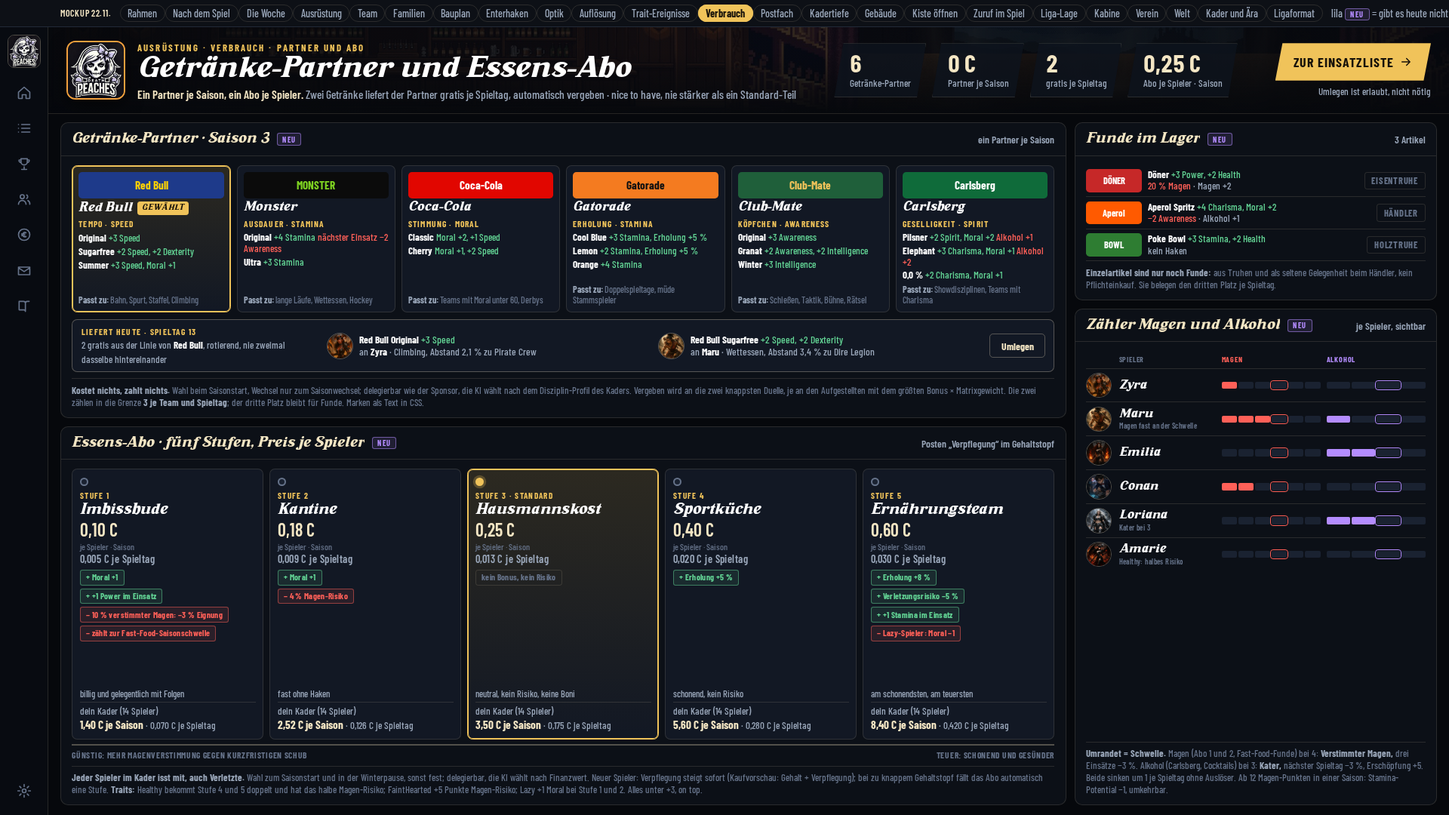
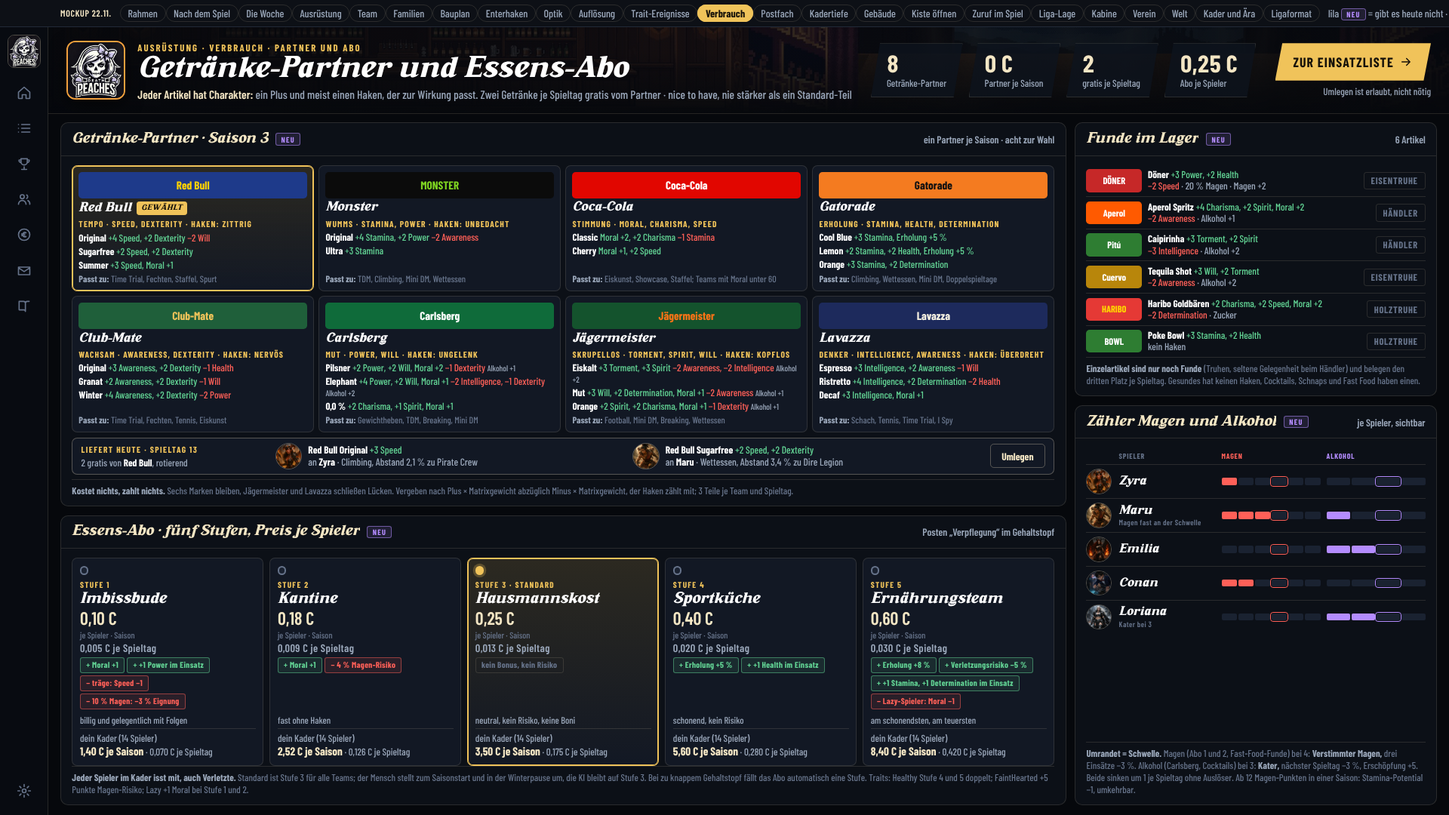
Konzept: Werte mit Charakter (Runde 18), acht Getränke-Partner, Abo-Standard Hausmannskost für alle
Jeder Artikel trägt Plus und meist einen passenden Haken, Abdeckung aller zwölf Attribute, Netto-Wert gegen die Matrix, KI zählt das Minus mit. Mockup und Aufnahmen angeglichen.

Claude-Session: https://claude.ai/code/session_01UYLNtXkprKr1XK4c3X2xQq

diff --git a/public/mockups/zwischen-den-spieltagen-22-11.html b/public/mockups/zwischen-den-spieltagen-22-11.html
@@ -504,7 +504,7 @@ main{display:grid;grid-template-rows:auto minmax(0,1fr);min-width:0;min-height:0
 .ez .po{width:2.1rem;height:2.1rem;border-radius:50%} .ez b{color:#fff;font:400 1rem/1 var(--haus)}
 .em{display:flex;gap:.12rem} .em i{flex:1;height:.6rem;border-radius:.12rem;background:var(--flaeche-3)} .em i.an{background:var(--f)} .em i.swl{outline:1px solid var(--f);outline-offset:1px}
 /* Runde 16: Getränke-Partner und Essens-Abo */
-.vp{display:grid;grid-template-columns:repeat(6,minmax(0,1fr));gap:.5rem}
+.vp{display:grid;grid-template-columns:repeat(4,minmax(0,1fr));gap:.4rem}
 .vm{display:flex;flex-direction:column;gap:.28rem;padding:.5rem;border-radius:.45rem;background:var(--flaeche-2);border:1px solid var(--linie);min-width:0}
 .vm.gew{border-color:var(--gold);box-shadow:0 0 0 1px var(--gold) inset;background:linear-gradient(180deg,rgba(240,195,90,.14),var(--flaeche-2))}
 .vm .lo,.fd .lo{display:grid;place-items:center;height:2.2rem;border-radius:.3rem;font-weight:700;font-size:.95rem;line-height:1;text-align:center;overflow:hidden;padding:0 .2rem}
@@ -512,7 +512,7 @@ main{display:grid;grid-template-rows:auto minmax(0,1fr);min-width:0;min-height:0
 .vm>em{font-style:normal;font-size:.72rem;letter-spacing:.1em;text-transform:uppercase;font-weight:700;color:var(--gold)}
 .vm ul{margin:0;padding:0;list-style:none;display:flex;flex-direction:column;gap:.2rem;font-size:.82rem;color:var(--leise);line-height:1.12} .vm li b{color:#fff}
 .vm .pz{margin-top:auto;font-size:.76rem;color:var(--stumm);line-height:1.15} .vm .pz b{color:var(--leise)}
-.lh{display:grid;grid-template-columns:minmax(0,1.1fr) minmax(0,1.5fr) minmax(0,1.5fr) auto;gap:.7rem;align-items:center;margin:.6rem 0 .5rem;padding:.5rem .7rem;border-radius:.45rem;border:1px solid var(--linie-2);background:var(--flaeche-2)}
+.lh{display:grid;grid-template-columns:minmax(0,.8fr) minmax(0,1.5fr) minmax(0,1.5fr) auto;gap:.7rem;align-items:center;margin:.45rem 0 .4rem;padding:.35rem .7rem;border-radius:.45rem;border:1px solid var(--linie-2);background:var(--flaeche-2)}
 .lh1 em{display:block;font-style:normal;font-size:.72rem;letter-spacing:.12em;text-transform:uppercase;font-weight:700;color:var(--gold)} .lh1 span{font-size:.82rem;color:var(--leise);line-height:1.15} .lh1 b{color:#fff}
 .lh2{display:flex;align-items:center;gap:.5rem;font-size:.84rem;color:var(--leise);line-height:1.2;min-width:0} .lh2 .po{width:2.2rem;height:2.2rem;border-radius:50%;flex:none} .lh2 b{color:#fff}
 .lh3{height:2rem;padding:0 .9rem;border:1px solid var(--linie-2);border-radius:.3rem;color:var(--creme);font-weight:700;font-size:.85rem}
@@ -523,7 +523,7 @@ main{display:grid;grid-template-rows:auto minmax(0,1fr);min-width:0;min-height:0
 .as .pk5 i{position:absolute;left:0;top:.1rem;width:.7rem;height:.7rem;border-radius:50%;background:var(--flaeche-3);border:2px solid var(--stumm)} .as.gew .pk5 i{background:var(--gold);border-color:var(--gold);box-shadow:0 0 0 .2rem rgba(240,195,90,.25)}
 .as>em{font-style:normal;font-size:.7rem;letter-spacing:.12em;text-transform:uppercase;font-weight:700;color:var(--gold)}
 .as h5{margin:0;font:400 1.25rem/1 var(--haus);color:#fff} .as strong{font:600 1.5rem/1 var(--zahl);color:var(--creme)} .as small{font-size:.74rem;color:var(--stumm)}
-.as .cc{display:flex;flex-direction:column;align-items:flex-start;gap:.25rem;margin:.2rem 0} .as .chip{height:auto;min-height:1.3rem;padding:.12rem .45rem;white-space:normal;font-size:.7rem;line-height:1.1;letter-spacing:.03em;text-transform:none}
+.as .cc{display:flex;flex-direction:row;flex-wrap:wrap;align-items:flex-start;gap:.2rem;margin:.1rem 0} .as .chip{height:auto;min-height:1.3rem;padding:.12rem .45rem;white-space:normal;font-size:.7rem;line-height:1.1;letter-spacing:.03em;text-transform:none}
 .as .sj{font:600 .9rem/1 var(--zahl);color:var(--leise);letter-spacing:.03em} .as .kd{font-size:.82rem;color:var(--leise);line-height:1.2;padding-top:.3rem;border-top:1px solid var(--linie)} .as .kd b{color:var(--creme);font-size:.95rem}
 .as .hn{margin-top:auto;font-size:.78rem;color:var(--leise);line-height:1.15}
 .sk{display:flex;justify-content:space-between;margin:.4rem 0 .5rem;padding-top:.3rem;border-top:2px solid var(--linie-2);font-size:.72rem;letter-spacing:.06em;text-transform:uppercase;font-weight:700;color:var(--stumm)}
@@ -905,44 +905,45 @@ function bauplan(){
 /* [Logo-Text, Hintergrund, Schrift, Produkt, Wirkung, Nebenwirkung, Preis] */
 /* ======================= RUNDE 16 · GETRÄNKE-PARTNER UND ESSENS-ABO ======================= */
 /* Marke: [Text-Logo, Grund, Schrift, Marke, Profil, passt zu, [[Artikel, Wirkung, Haken]]] */
-var PT=[["Red Bull","#1e3a8a","#ffd200","Red Bull","Tempo · Speed","Bahn, Spurt, Staffel, Climbing",[["Original","+3 Speed",""],["Sugarfree","+2 Speed, +2 Dexterity",""],["Summer","+3 Speed, Moral +1",""]]],
- ["MONSTER","#0b0b0b","#7ed321","Monster","Ausdauer · Stamina","lange Läufe, Wettessen, Hockey",[["Original","+4 Stamina","nächster Einsatz −2 Awareness"],["Ultra","+3 Stamina",""]]],
- ["Coca-Cola","#e10600","#fff","Coca-Cola","Stimmung · Moral","Teams mit Moral unter 60, Derbys",[["Classic","Moral +2, +1 Speed",""],["Cherry","Moral +1, +2 Speed",""]]],
- ["Gatorade","#f47b20","#111","Gatorade","Erholung · Stamina","Doppelspieltage, müde Stammspieler",[["Cool Blue","+3 Stamina, Erholung +5 %",""],["Lemon","+2 Stamina, Erholung +5 %",""],["Orange","+4 Stamina",""]]],
- ["Club-Mate","#1f5f3a","#f0c35a","Club-Mate","Köpfchen · Awareness","Schießen, Taktik, Bühne, Rätsel",[["Original","+3 Awareness",""],["Granat","+2 Awareness, +2 Intelligence",""],["Winter","+3 Intelligence",""]]],
- ["Carlsberg","#0f6b3a","#fff","Carlsberg","Geselligkeit · Spirit","Showdisziplinen, Teams mit Charisma",[["Pilsner","+2 Spirit, Moral +2","Alkohol +1"],["Elephant","+3 Charisma, Moral +1","Alkohol +2"],["0,0 %","+2 Charisma, Moral +1",""]]]];
+var PT=[["Red Bull","#1e3a8a","#ffd200","Red Bull","Tempo · Speed, Dexterity · Haken: zittrig","Time Trial, Fechten, Staffel, Spurt",[["Original","+4 Speed, +2 Dexterity","−2 Will",""],["Sugarfree","+2 Speed, +2 Dexterity","",""],["Summer","+3 Speed, Moral +1","",""]]],
+ ["MONSTER","#0b0b0b","#7ed321","Monster","Wumms · Stamina, Power · Haken: unbedacht","TDM, Climbing, Mini DM, Wettessen",[["Original","+4 Stamina, +2 Power","−2 Awareness",""],["Ultra","+3 Stamina","",""]]],
+ ["Coca-Cola","#e10600","#fff","Coca-Cola","Stimmung · Moral, Charisma, Speed","Eiskunst, Showcase, Staffel; Teams mit Moral unter 60",[["Classic","Moral +2, +2 Charisma","−1 Stamina",""],["Cherry","Moral +1, +2 Speed","",""]]],
+ ["Gatorade","#f47b20","#111","Gatorade","Erholung · Stamina, Health, Determination","Climbing, Wettessen, Mini DM, Doppelspieltage",[["Cool Blue","+3 Stamina, Erholung +5 %","",""],["Lemon","+2 Stamina, +2 Health, Erholung +5 %","",""],["Orange","+3 Stamina, +2 Determination","",""]]],
+ ["Club-Mate","#1f5f3a","#f0c35a","Club-Mate","Wachsam · Awareness, Dexterity · Haken: nervös","Time Trial, Fechten, Tennis, Eiskunst",[["Original","+3 Awareness, +2 Dexterity","−1 Health",""],["Granat","+2 Awareness, +2 Dexterity","−1 Will",""],["Winter","+4 Awareness, +2 Dexterity","−2 Power",""]]],
+ ["Carlsberg","#0f6b3a","#fff","Carlsberg","Mut · Power, Will · Haken: ungelenk","Gewichtheben, TDM, Breaking, Mini DM",[["Pilsner","+2 Power, +2 Will, Moral +2","−1 Dexterity","Alkohol +1"],["Elephant","+4 Power, +2 Will, Moral +1","−2 Intelligence, −1 Dexterity","Alkohol +2"],["0,0 %","+2 Charisma, +1 Spirit, Moral +1","",""]]],
+ ["Jägermeister","#14532d","#f97316","Jägermeister","Skrupellos · Torment, Spirit, Will · Haken: kopflos","Football, Mini DM, Breaking, Wettessen",[["Eiskalt","+3 Torment, +3 Spirit","−2 Awareness, −2 Intelligence","Alkohol +2"],["Mut","+3 Will, +2 Determination, Moral +1","−2 Awareness","Alkohol +1"],["Orange","+2 Spirit, +2 Charisma, Moral +1","−1 Dexterity","Alkohol +1"]]],
+ ["Lavazza","#1d2a5c","#f5f0e1","Lavazza","Denker · Intelligence, Awareness · Haken: überdreht","Schach, Tennis, Time Trial, I Spy",[["Espresso","+3 Intelligence, +2 Awareness","−1 Will",""],["Ristretto","+4 Intelligence, +2 Determination","−2 Health",""],["Decaf","+3 Intelligence, Moral +1","",""]]]];
 var GEW=0;
 /* Abo: [Stufe, Name, Kosten je Spieler und Saison (C), Vorteile, Nachteile, Hinweis]; Abrechnung je Spieltag im Gehaltstopf, Kader im Mockup 14 Spieler */
-var AB5=[[1,"Imbissbude",.10,["Moral +1","+1 Power im Einsatz"],["10 % verstimmter Magen: −3 % Eignung","zählt zur Fast-Food-Saisonschwelle"],"billig und gelegentlich mit Folgen"],
+var AB5=[[1,"Imbissbude",.10,["Moral +1","+1 Power im Einsatz"],["träge: Speed −1","10 % Magen: −3 % Eignung"] ,"billig und gelegentlich mit Folgen"],
  [2,"Kantine",.18,["Moral +1"],["4 % Magen-Risiko"],"fast ohne Haken"],
  [3,"Hausmannskost",.25,[],[],"neutral, kein Risiko, keine Boni"],
- [4,"Sportküche",.40,["Erholung +5 %"],[],"schonend, kein Risiko"],
- [5,"Ernährungsteam",.60,["Erholung +8 %","Verletzungsrisiko −5 %","+1 Stamina im Einsatz"],["Lazy-Spieler: Moral −1"],"am schonendsten, am teuersten"]];
+ [4,"Sportküche",.40,["Erholung +5 %","+1 Health im Einsatz"],[],"schonend, kein Risiko"],
+ [5,"Ernährungsteam",.60,["Erholung +8 %","Verletzungsrisiko −5 %","+1 Stamina, +1 Determination im Einsatz"],["Lazy-Spieler: Moral −1"],"am schonendsten, am teuersten"]];
 var ABG=2, ABN=14;
 function cz(x,d){return x.toFixed(d).replace(".",",")}
 function verbrauch(){
  var E=[["zyra","Zyra",1,0,""],["maru","Maru",3,1,"Magen fast an der Schwelle"],["emilia","Emilia",0,2,""],["conan","Conan",2,0,""],["queen-loriana","Loriana",0,2,"Kater bei 3"],["amarie","Amarie",0,0,"Healthy: halbes Risiko"]],SWE=[4,3];
  function em(v,j,f){var h="";for(var i=0;i<(j?4:6);i++)h+='<i class="'+(i<v?"an":"")+(i===SWE[j]-1?" swl":"")+'"></i>';return '<span class="em" style="--f:'+f+'">'+h+'</span>'}
  var g=PT[GEW];
- function art(x){return '<li><b>'+x[0]+'</b> <span class="plus">'+x[1]+'</span>'+(x[2]?' <span class="minus">'+x[2]+'</span>':"")+'</li>'}
+ function art(x){return '<li><b>'+x[0]+'</b> <span class="plus">'+x[1]+'</span>'+(x[2]?' <span class="minus">'+x[2]+'</span>':"")+(x[3]?' <small>'+x[3]+'</small>':"")+'</li>'}
  function chips(v,n){return v.map(function(x){return '<span class="chip g">+ '+x+'</span>'}).join("")+n.map(function(x){return '<span class="chip w">− '+x+'</span>'}).join("")}
- return hero({kul:[kul("wettessen","bierzelt"),kul("showcase","buehne")],kick:"Ausrüstung · Verbrauch · Partner und Abo",titel:"Getränke-Partner und Essens-Abo",lage:"<b>Ein Partner je Saison, ein Abo je Spieler.</b> Zwei Getränke liefert der Partner gratis je Spieltag, automatisch vergeben · nice to have, nie stärker als ein Standard-Teil",
-   kpi:[["6","Getränke-Partner"],["0 C","Partner je Saison"],["2","gratis je Spieltag"],["0,25 C","Abo je Spieler · Saison"]],cta:["Zur Einsatzliste","Umlegen ist erlaubt, nicht nötig"]})
+ return hero({kul:[kul("wettessen","bierzelt"),kul("showcase","buehne")],kick:"Ausrüstung · Verbrauch · Partner und Abo",titel:"Getränke-Partner und Essens-Abo",lage:"<b>Jeder Artikel hat Charakter:</b> ein Plus und meist einen Haken, der zur Wirkung passt. Zwei Getränke je Spieltag gratis vom Partner · nice to have, nie stärker als ein Standard-Teil",
+   kpi:[["8","Getränke-Partner"],["0 C","Partner je Saison"],["2","gratis je Spieltag"],["0,25 C","Abo je Spieler"]],cta:["Zur Einsatzliste","Umlegen ist erlaubt, nicht nötig"]})
  +'<div class="vb">'
  +'<div style="display:grid;grid-template-rows:auto minmax(0,1fr);gap:.72rem;min-height:0">'
  +pan("","Getränke-Partner · Saison 3",'<div class="vp">'+PT.map(function(m,i){return '<div class="vm'+(i===GEW?" gew":"")+'"><span class="lo" style="background:'+m[1]+';color:'+m[2]+'">'+m[0]+'</span><h5>'+m[3]+(i===GEW?'<span class="chip d">gewählt</span>':"")+'</h5><em>'+m[4]+'</em><ul>'+m[6].map(art).join("")+'</ul><span class="pz"><b>Passt zu:</b> '+m[5]+'</span></div>'}).join("")+'</div>'
-  +'<div class="lh"><div class="lh1"><em>Liefert heute · Spieltag 13</em><span>2 gratis aus der Linie von <b>'+g[3]+'</b>, rotierend, nie zweimal dasselbe hintereinander</span></div>'
+  +'<div class="lh"><div class="lh1"><em>Liefert heute · Spieltag 13</em><span>2 gratis von <b>'+g[3]+'</b>, rotierend</span></div>'
   +'<div class="lh2">'+po("zyra")+'<span><b>Red Bull Original</b> <span class="plus">+3 Speed</span><br>an <b>Zyra</b> · Climbing, Abstand 2,1 % zu Pirate Crew</span></div>'
   +'<div class="lh2">'+po("maru")+'<span><b>Red Bull Sugarfree</b> <span class="plus">+2 Speed, +2 Dexterity</span><br>an <b>Maru</b> · Wettessen, Abstand 3,4 % zu Dire Legion</span></div>'
   +'<button class="btn lh3">Umlegen</button></div>'
-  +'<div class="fz"><b>Kostet nichts, zahlt nichts.</b> Wahl beim Saisonstart, Wechsel nur zum Saisonwechsel; delegierbar wie der Sponsor, die KI wählt nach dem Disziplin-Profil des Kaders. Vergeben wird an die zwei knappsten Duelle, je an den Aufgestellten mit dem größten Bonus × Matrixgewicht. Die zwei zählen in die Grenze <b>3 je Team und Spieltag</b>; der dritte Platz bleibt für Funde. Marken als Text in CSS.</div>','<span class="re">ein Partner je Saison</span>')
+  +'<div class="fz"><b>Kostet nichts, zahlt nichts.</b> Sechs Marken bleiben, Jägermeister und Lavazza schließen Lücken. Vergeben nach Plus × Matrixgewicht abzüglich Minus × Matrixgewicht, der Haken zählt mit; 3 Teile je Team und Spieltag.</div>','<span class="re">ein Partner je Saison · acht zur Wahl</span>')
  +pan("","Essens-Abo · fünf Stufen, Preis je Spieler",'<div class="ar">'+AB5.map(function(x,i){return '<div class="as'+(i===ABG?" gew":"")+(i===2?" std":"")+'"><span class="pk5"><i></i></span><em>Stufe '+x[0]+(i===2?" · Standard":"")+'</em><h5>'+x[1]+'</h5><strong class="t">'+cz(x[2],2)+' C</strong><small>je Spieler · Saison</small><span class="sj">'+cz(x[2]/20,3)+' C je Spieltag</span><div class="cc">'+(x[3].length||x[4].length?chips(x[3],x[4]):'<span class="chip s">kein Bonus, kein Risiko</span>')+'</div><span class="hn">'+x[5]+'</span><span class="kd">dein Kader ('+ABN+' Spieler)<br><b>'+cz(x[2]*ABN,2)+' C je Saison</b> · '+cz(x[2]*ABN/20,3)+' C je Spieltag</span></div>'}).join("")+'</div>'
-  +'<div class="sk"><span>günstig: mehr Magenverstimmung gegen kurzfristigen Schub</span><span>teuer: schonend und gesünder</span></div>'
-  +'<div class="fz"><b>Jeder Spieler im Kader isst mit, auch Verletzte.</b> Wahl zum Saisonstart und in der Winterpause, sonst fest; delegierbar, die KI wählt nach Finanzwert. Neuer Spieler: Verpflegung steigt sofort (Kaufvorschau: Gehalt + Verpflegung); bei zu knappem Gehaltstopf fällt das Abo automatisch eine Stufe. <b>Traits:</b> Healthy bekommt Stufe 4 und 5 doppelt und hat das halbe Magen-Risiko; FaintHearted +5 Punkte Magen-Risiko; Lazy +1 Moral bei Stufe 1 und 2. Alles unter +3, on top.</div>','<span class="re">Posten „Verpflegung“ im Gehaltstopf</span>')
+  +'<div class="fz"><b>Jeder Spieler im Kader isst mit, auch Verletzte.</b> Standard ist Stufe 3 für alle Teams; der Mensch stellt zum Saisonstart und in der Winterpause um, die KI bleibt auf Stufe 3. Bei zu knappem Gehaltstopf fällt das Abo automatisch eine Stufe. Traits: Healthy Stufe 4 und 5 doppelt; FaintHearted +5 Punkte Magen-Risiko; Lazy +1 Moral bei Stufe 1 und 2.</div>','<span class="re">Posten „Verpflegung“ im Gehaltstopf</span>')
  +'</div>'
  +'<div style="display:grid;grid-template-rows:auto minmax(0,1fr);gap:.72rem;min-height:0">'
- +pan("","Funde im Lager",'<div class="fd"><span class="lo" style="background:#c62828;color:#fff">DÖNER</span><span><b>Döner</b> <span class="plus">+3 Power, +2 Health</span><br><span class="minus">20 % Magen</span> · Magen +2</span><span class="chip s">Eisentruhe</span></div><div class="fd"><span class="lo" style="background:#ff5a00;color:#fff">Aperol</span><span><b>Aperol Spritz</b> <span class="plus">+4 Charisma, Moral +2</span><br><span class="minus">−2 Awareness</span> · Alkohol +1</span><span class="chip s">Händler</span></div><div class="fd"><span class="lo" style="background:#2e7d32;color:#fff">BOWL</span><span><b>Poke Bowl</b> <span class="plus">+3 Stamina, +2 Health</span><br>kein Haken</span><span class="chip s">Holztruhe</span></div><div class="fz"><b>Einzelartikel sind nur noch Funde:</b> aus Truhen und als seltene Gelegenheit beim Händler, kein Pflichteinkauf. Sie belegen den dritten Platz je Spieltag.</div>','<span class="re">3 Artikel</span>')
- +pan("","Zähler Magen und Alkohol",'<div class="ez kopf"><span></span><span>Spieler</span><span style="color:var(--warn)">Magen</span><span style="color:var(--neu)">Alkohol</span></div>'+E.map(function(e){return '<div class="ez">'+po(e[0])+'<b>'+e[1]+(e[4]?'<small>'+e[4]+'</small>':"")+'</b>'+em(e[2],0,"var(--warn)")+em(e[3],1,"var(--neu)")+'</div>'}).join("")+'<div class="fz"><b>Umrandet = Schwelle.</b> Magen (Abo 1 und 2, Fast-Food-Funde) bei 4: <b>Verstimmter Magen,</b> drei Einsätze −3 %. Alkohol (Carlsberg, Cocktails) bei 3: <b>Kater,</b> nächster Spieltag −3 %, Erschöpfung +5. Beide sinken um 1 je Spieltag ohne Auslöser. Ab 12 Magen-Punkten in einer Saison: Stamina-Potential −1, umkehrbar.</div>','<span class="re">je Spieler, sichtbar</span>')
+ +pan("","Funde im Lager",'<div class="fd"><span class="lo" style="background:#c62828;color:#fff">DÖNER</span><span><b>Döner</b> <span class="plus">+3 Power, +2 Health</span><br><span class="minus">−2 Speed</span> · 20 % Magen · Magen +2</span><span class="chip s">Eisentruhe</span></div><div class="fd"><span class="lo" style="background:#ff5a00;color:#fff">Aperol</span><span><b>Aperol Spritz</b> <span class="plus">+4 Charisma, +2 Spirit, Moral +2</span><br><span class="minus">−2 Awareness</span> · Alkohol +1</span><span class="chip s">Händler</span></div><div class="fd"><span class="lo" style="background:#2e7d32;color:#fff">Pitú</span><span><b>Caipirinha</b> <span class="plus">+3 Torment, +2 Spirit</span><br><span class="minus">−3 Intelligence</span> · Alkohol +2</span><span class="chip s">Händler</span></div><div class="fd"><span class="lo" style="background:#b8860b;color:#fff">Cuervo</span><span><b>Tequila Shot</b> <span class="plus">+3 Will, +2 Torment</span><br><span class="minus">−2 Awareness</span> · Alkohol +2</span><span class="chip s">Eisentruhe</span></div><div class="fd"><span class="lo" style="background:#e53935;color:#ffd600">HARIBO</span><span><b>Haribo Goldbären</b> <span class="plus">+2 Charisma, +2 Speed, Moral +2</span><br><span class="minus">−2 Determination</span> · Zucker</span><span class="chip s">Holztruhe</span></div><div class="fd"><span class="lo" style="background:#2e7d32;color:#fff">BOWL</span><span><b>Poke Bowl</b> <span class="plus">+3 Stamina, +2 Health</span><br>kein Haken</span><span class="chip s">Holztruhe</span></div><div class="fz"><b>Einzelartikel sind nur noch Funde</b> (Truhen, seltene Gelegenheit beim Händler) und belegen den dritten Platz je Spieltag. Gesundes hat keinen Haken, Cocktails, Schnaps und Fast Food haben einen.</div>','<span class="re">6 Artikel</span>')
+ +pan("","Zähler Magen und Alkohol",'<div class="ez kopf"><span></span><span>Spieler</span><span style="color:var(--warn)">Magen</span><span style="color:var(--neu)">Alkohol</span></div>'+E.slice(0,5).map(function(e){return '<div class="ez">'+po(e[0])+'<b>'+e[1]+(e[4]?'<small>'+e[4]+'</small>':"")+'</b>'+em(e[2],0,"var(--warn)")+em(e[3],1,"var(--neu)")+'</div>'}).join("")+'<div class="fz"><b>Umrandet = Schwelle.</b> Magen (Abo 1 und 2, Fast-Food-Funde) bei 4: <b>Verstimmter Magen,</b> drei Einsätze −3 %. Alkohol (Carlsberg, Cocktails) bei 3: <b>Kater,</b> nächster Spieltag −3 %, Erschöpfung +5. Beide sinken um 1 je Spieltag ohne Auslöser. Ab 12 Magen-Punkten in einer Saison: Stamina-Potential −1, umkehrbar.</div>','<span class="re">je Spieler, sichtbar</span>')
  +'</div></div>'}
 
 /* ======================= RUNDE 13 · TIEFE-REITER IN DER TEAM-ANSICHT ======================= */

diff --git a/docs/design/zwischen-den-spieltagen-22-11.md b/docs/design/zwischen-den-spieltagen-22-11.md
@@ -2071,7 +2071,7 @@ Spieltagen.
 
 ## 72. Verbrauchsgegenstände mit bekannten Namen
 
-*Seit Runde 16 (§76) ist der Kiosk kein Pflichteinkauf mehr: Getränke kommen zu zwei je Spieltag gratis vom Getränke-Partner,
+*Die Artikelwerte unten sind seit Runde 18 (§78) durch Charakterwerte mit Plus und Haken ersetzt; maßgeblich ist §78.3. Seit Runde 16 (§76) ist der Kiosk kein Pflichteinkauf mehr: Getränke kommen zu zwei je Spieltag gratis vom Getränke-Partner,
 Einzelartikel nur noch als Truhen-Fund oder seltene Gelegenheit beim Händler. Die Artikelwerte unten bleiben der Rahmen für
 Partner-Linien und Funde.*
 
@@ -2233,40 +2233,45 @@ Seitenscroll, keine Überlappung, keine JS-Fehler.)
 - **Ein Partner je Saison,** gewählt beim Saisonstart, Wechsel nur zum Saisonwechsel. Kostet nichts, zahlt nichts. Delegierbar
   wie der Sponsor; die KI wählt nach dem Disziplin-Profil des Kaders.
 - **Zwei gratis Getränke je Spieltag** aus der Linie des Partners, rotierend (nie zweimal dasselbe hintereinander).
-- **Automatische Vergabe:** an die zwei knappsten Duelle des Spieltags, je an den aufgestellten Spieler mit dem größten
-  `Bonus × Matrixgewicht`. Der Mensch kann umlegen, muss nicht. Kein Mikromanagement.
+- **Automatische Vergabe:** an die zwei knappsten Duelle des Spieltags, je an den aufgestellten Spieler, bei dem der Netto-Wert
+  (Plus × Matrixgewicht abzüglich Minus × Matrixgewicht, §78.4) am größten ist. Der Mensch kann umlegen, muss nicht. Kein Mikromanagement.
 - **Grenze:** die zwei zählen in die Grenze 3 je Team und Spieltag (§72); der dritte Platz bleibt für Funde aus Truhen.
 - **Kiosk:** Einzelartikel nur noch als Truhen-Fund und beim Händler als seltene Gelegenheit.
 
-Werte im Rahmen der Runde 15: ein Attribut +2 bis +4, zwei zusammen höchstens +5, Moral +1 bis +2.
+Werte im Rahmen der Runde 15, in Runde 18 (§78.1) um den Haken-Spielraum erweitert.
 
-| Partner | Profil | Artikel (Wirkung für einen Einsatz) | Passt zu |
+*Seit Runde 18 (§78) haben alle Linien einen Charakter mit Plus und meist einem Haken; die Tabelle unten ersetzt die der Runde 16.
+Acht Partner statt sechs: Jägermeister und Lavazza sind neu.*
+
+| Partner | Charakter | Artikel (Wirkung für einen Einsatz, Haken fett) | Passt zu (höchster Netto-Wert, §78.4) |
 |---|---|---|---|
-| Red Bull | Tempo: Speed | Original +3 Speed; Sugarfree +2 Speed, +2 Dexterity; Summer +3 Speed, Moral +1 | Bahn, Spurt, Staffel, Climbing |
-| Monster | Ausdauer: Stamina, kleiner Haken | Original +4 Stamina (nächster Einsatz −2 Awareness); Ultra +3 Stamina | lange Läufe, Wettessen, Hockey |
-| Coca-Cola | Stimmung: Moral + Speed klein | Classic Moral +2, +1 Speed; Cherry Moral +1, +2 Speed | Teams mit Moral unter 60, Derbys |
-| Gatorade | Erholung: Stamina + Erholung | Cool Blue +3 Stamina, Erholung +5 %; Lemon +2 Stamina, Erholung +5 %; Orange +4 Stamina | Doppelspieltage, müde Stammspieler |
-| Club-Mate | Köpfchen: Awareness, Intelligence | Original +3 Awareness; Granat +2 Awareness, +2 Intelligence; Winter +3 Intelligence | Schießen, Taktik, Bühne, Rätsel |
-| Carlsberg | Geselligkeit: Spirit, Charisma, Moral | Pilsner +2 Spirit, Moral +2 (Alkohol +1); Elephant +3 Charisma, Moral +1 (Alkohol +2); 0,0 % +2 Charisma, Moral +1 | Showdisziplinen, Teams mit Charisma |
+| Red Bull | Tempo, zittrig: Speed, Dexterity; Haken Will | Original +4 Speed, +2 Dexterity, **−2 Will**; Sugarfree +2 Speed, +2 Dexterity; Summer +3 Speed, Moral +1 | Time Trial, Fechten, Staffel, Spurt |
+| Monster | Wumms, unbedacht: Stamina, Power; Haken Awareness | Original +4 Stamina, +2 Power, **−2 Awareness**; Ultra +3 Stamina | TDM, Climbing, Mini DM, Wettessen |
+| Coca-Cola | Stimmung: Moral, Charisma, Speed | Classic Moral +2, +2 Charisma, **−1 Stamina**; Cherry Moral +1, +2 Speed | Eiskunst, Showcase, Staffel; Teams mit Moral unter 60 |
+| Gatorade | Erholung: Stamina, Health, Determination; ohne Haken | Cool Blue +3 Stamina, Erholung +5 %; Lemon +2 Stamina, +2 Health, Erholung +5 %; Orange +3 Stamina, +2 Determination | Climbing, Wettessen, Mini DM, Doppelspieltage |
+| Club-Mate | Wachsam, nervös: Awareness, Dexterity; Haken Health, Will, Power | Original +3 Awareness, +2 Dexterity, **−1 Health**; Granat +2 Awareness, +2 Dexterity, **−1 Will**; Winter +4 Awareness, +2 Dexterity, **−2 Power** | Time Trial, Fechten, Tennis, Eiskunst |
+| Carlsberg | Mut antrinken: Power, Will; Haken Dexterity, Intelligence | Pilsner +2 Power, +2 Will, Moral +2, **−1 Dexterity** (Alkohol +1); Elephant +4 Power, +2 Will, Moral +1, **−2 Intelligence, −1 Dexterity** (Alkohol +2); 0,0 % +2 Charisma, +1 Spirit, Moral +1 | Gewichtheben, TDM, Breaking, Mini DM |
+| Jägermeister (neu) | Skrupellos, kopflos: Torment, Spirit, Will; Haken Awareness, Intelligence | Eiskalt +3 Torment, +3 Spirit, **−2 Awareness, −2 Intelligence** (Alkohol +2); Mut +3 Will, +2 Determination, Moral +1, **−2 Awareness** (Alkohol +1); Orange +2 Spirit, +2 Charisma, Moral +1, **−1 Dexterity** (Alkohol +1) | Football, Mini DM, Breaking, Wettessen |
+| Lavazza (neu) | Denker, überdreht: Intelligence, Awareness; Haken Will, Health | Espresso +3 Intelligence, +2 Awareness, **−1 Will**; Ristretto +4 Intelligence, +2 Determination, **−2 Health**; Decaf +3 Intelligence, Moral +1 | Schach, Tennis, Time Trial, I Spy |
 
 **KI-Wahl des Partners:** Disziplin-Profil des Kaders (welche Attribute in den kommenden Disziplinen am schwersten zählen)
-gegen das Profil der Marke; bei Gleichstand der mit dem geringsten Alkohol-Risiko. Carlsberg nur bei Kaderanteil SOC über 40 %.
+gegen das Profil der Marke; bei Gleichstand der mit dem geringsten Alkohol-Risiko. Alkohol-Partner (Carlsberg, Jägermeister) nur, wenn ihr mittlerer Netto-Wert mindestens 15 % über dem besten alkoholfreien liegt (das Kater-Risiko zählt mit).
 
 ### 76.2 Essens-Abo (ersetzt Einzel-Essen und den Großteil der Ernährungs-Zähler)
 
-Team-weit **eine von fünf Stufen,** Wahl zum Saisonstart und in der Winterpause (sonst fest), Standard Stufe 3, delegierbar,
-die KI wählt nach Finanzwert (unter 4 Stufe 1 bis 2, 4 bis 6 Stufe 3, ab 7 Stufe 4, ab 9 Stufe 5). Wirkung je Spieler und Spieltag.
+Team-weit **eine von fünf Stufen,** Wahl zum Saisonstart und in der Winterpause (sonst fest), Standard Stufe 3 für alle Teams, delegierbar,
+**Standard ist Hausmannskost (Stufe 3) für alle Teams, Mensch wie KI** (Chris, 22.11.: „standard is hausmannskost für alle teams“). Die KI wählt nicht mehr nach Finanzwert, sondern bleibt auf Stufe 3; sie weicht nur automatisch ab, wenn der Vorstand den Gehaltstopf so kürzt, dass das Abo nicht mehr passt (dann eine Stufe runter, nie unter 1, mit Postfach, §77.2). Der Mensch stellt zum Saisonstart und in der Winterpause um. Wirkung je Spieler und Spieltag.
 **Preis und Topf wurden in Runde 17 geändert (§77): der Preis gilt je Spieler, nicht mehr als Team-Pauschale, und der Posten
 läuft im Gehaltstopf.** Die Spalte „Kosten“ unten ist deshalb der Preis je Spieler und Saison; die Team-Pauschalen 0,5/1,0/1,5/2,5/3,5 C
 der Runde 16 gelten nicht mehr.
 
 | Stufe | Name | Preis je Spieler und Saison | Vorteil | Nachteil |
 |---|---|---:|---|---|
-| 1 | Imbissbude | 0,10 C | Moral +1, +1 Power im Einsatz | 10 % je Spieler und Spieltag verstimmter Magen (−3 % Eignung an diesem Spieltag); zählt für die Fast-Food-Saisonschwelle |
+| 1 | Imbissbude | 0,10 C | Moral +1, +1 Power im Einsatz | träge: −1 Speed im Einsatz; 10 % je Spieler und Spieltag verstimmter Magen (−3 % Eignung an diesem Spieltag); zählt für die Fast-Food-Saisonschwelle |
 | 2 | Kantine | 0,18 C | Moral +1 | 4 % Magen-Risiko |
 | 3 | Hausmannskost | 0,25 C | neutral | kein Risiko, keine Boni |
-| 4 | Sportküche | 0,40 C | Erholung +5 % | kein Risiko |
-| 5 | Ernährungsteam | 0,60 C | Erholung +8 %, Verletzungsrisiko −5 %, +1 Stamina im Einsatz | Lazy-Spieler −1 Moral (Gemecker) |
+| 4 | Sportküche | 0,40 C | Erholung +5 %, +1 Health im Einsatz | kein Risiko |
+| 5 | Ernährungsteam | 0,60 C | Erholung +8 %, Verletzungsrisiko −5 %, +1 Stamina und +1 Determination im Einsatz | Lazy-Spieler −1 Moral (Gemecker) |
 
 **Traits:** Healthy bekommt Stufe 4 und 5 doppelt und hat das halbe Magen-Risiko; FaintHearted +5 Punkte Magen-Risiko; Lazy
 +1 Moral bei Stufe 1 und 2. Nichts liegt über +3 im Einsatz; die Erholungs- und Verletzungswerte sind Dauerwerte und klein.
@@ -2340,7 +2345,7 @@ Spieltag wird auf 0,01 C gerundet angezeigt (0,175 C erscheint als 0,17 oder 0,1
 - **Vorstands-Kürzung wie bei Gehältern:** der Posten zählt zum Gehaltstopf und unterliegt dessen Freigabe (höchstens auf 75 % gekürzt).
   Wird der Topf zu knapp für Gehälter plus Verpflegung, **fällt das Abo automatisch um eine Stufe, nie unter Stufe 1,** und es kommt eine
   Nachricht ins Postfach (Typ Finanz, mit Stufe alt/neu und der Ersparnis). Sobald der Topf wieder reicht, bleibt die niedrigere Stufe bis zur
-  nächsten freien Wahl (Saisonstart oder Winterpause); die KI-Teams folgen derselben Regel.
+  nächsten freien Wahl (Saisonstart oder Winterpause); die KI-Teams folgen derselben Regel (sie bleiben sonst auf Stufe 3, kein Finanzwert-Staffeln mehr).
 - **Kaufen und Verpflichten** erhöhen die Verpflegungskosten sofort. Die **Kaufvorschau** zeigt „Gehalt + Verpflegung“ (z. B. 6,5 C + 0,25 C
   je Saison, je Spieltag 0,325 + 0,0125 C); die Prüfung gegen den Gehaltstopf rechnet beides, Mensch und KI gleich. Beim Verkauf fließt
   die Verpflegung zusammen mit dem Gehalt zu 100 % in den Gehaltstopf zurück.
@@ -2375,3 +2380,128 @@ Abo für ein 14er-Team plus Funde (0,3 C) gegen die Reparatur voll ausgerüstete
 Vergleich: ein Legendäres im Dauereinsatz kostet etwa 2 C Reparatur je Saison (§67); das Standard-Abo kostet für 14 Spieler fast zwei
 Legendäre, Stufe 5 gut vier. Gegenüber Runde 16 (1,8 C im Standard) ist die Verpflegung damit rund doppelt so teuer und wächst mit dem
 Kader, so wie Chris es wollte: der Abo-Preis ist eine echte Entscheidung zwischen Geld und Risiko, kein Schnäppchen mehr.
+
+## 78. Runde 18: Werte mit Charakter
+
+Chris, 22.11., wörtlich: „essen und trinken ist so abgenommen — was du noch anpassen kannst sind wirklich die stats, es muss nicht nur
+speed ausdauer moral sein, es können auch andere dinge sein. Cocktails vllt für den spirit oder torment weil skrupelloser oder so, oder
+manches power weil man aggressiver wird usw aber dafür weniger aware oder intelligent. Spiel mal etwas mehr damit“. Preise, Abo-Preise,
+Zähler und die Grenze 3 je Team und Spieltag bleiben (§72 bis §77). Geändert werden nur die Werte der Artikel: jeder bekommt einen Charakter.
+Dazu Chris, 22.11.: „standard is hausmannskost für alle teams“ (eingearbeitet in §76.2, §77.2). Startwerte zum Messen.
+Mockup: `public/mockups/zwischen-den-spieltagen-22-11.html?ansicht=verbrauch`, Aufnahmen aus der echten Seite:
+![Verbrauch 1920](zwischen-den-spieltagen-22-11/verbrauch-1920.png)
+![Verbrauch 2560](zwischen-den-spieltagen-22-11/verbrauch-2560.png)
+
+### 78.1 Rahmen (nice to have bleibt)
+
+- Jeder Artikel hat ein **Plus und meist einen Haken** (Minus), der zur Wirkung passt: wer sich Mut antrinkt, wird kopflos; wer Kaffee kippt, wird
+  nervös; wer Fast Food isst, wird träge. Gesundes und Wasser haben keinen Haken, Cola-Linien und Süßes nur einen kleinen.
+- **Ein Plus-Attribut höchstens +4, Plus-Summe höchstens +5.** Nur wenn der Artikel ein echtes Minus von mindestens −2 trägt, darf die Plus-Summe
+  +6 sein (ein Attribut dann höchstens +5; im Bestand ist +4 der höchste Einzelwert). Minus je Attribut −1 bis −3. Moral weiter +1 bis +2
+  und nicht in der Summe. Nichts erreicht ein seltenes Ausrüstungsteil (+8); ein Standard-Teil (+3) bleibt die Messlatte.
+- Der Haken gilt im selben Einsatz wie das Plus (er ersetzt die Nebenwirkung „nächster Einsatz“ der Runde 15). Magen und Alkohol laufen
+  als Zähler und Ereignisse (§76.2) unverändert daneben.
+
+### 78.2 Charaktere
+
+| Typ | Plus | Haken |
+|---|---|---|
+| Cocktail, Schnaps | Torment, Spirit, Charisma (skrupellos, enthemmt); „Mut antrinken“: Will, Determination | Awareness, Intelligence, Dexterity |
+| Bier | Power, Will (aggressiver, mutiger) | Intelligence, Dexterity |
+| Energy | Speed, Dexterity, Stamina | Will (zittrig) oder Awareness |
+| Kaffee, Mate, Tee | Intelligence, Awareness | Will oder Health (nervös) |
+| Fast Food | Power, Health (Pizza: Determination, Currywurst: Torment) | Speed, Stamina (träge) |
+| Gesundes | Health, Stamina, Determination, Power, Awareness | kein Haken |
+| Süßes | Charisma, Moral, kurz Speed | Determination |
+
+### 78.3 Artikelwerte der Funde (Einzelartikel aus Truhen und Händler, ersetzen die Tabelle in §72)
+
+Preise und Zähler wie in §72. Plus-Summe, Minus-Summe in Klammern.
+
+| Artikel | Plus | Haken | Zähler und Hinweis |
+|---|---|---|---|
+| Aperol Spritz | +4 Charisma, +2 Spirit, Moral +2 (+6) | −2 Awareness (−2) | Alkohol +1 |
+| Mojito (Bacardí) | +4 Spirit, +1 Charisma (+5) | −2 Dexterity (−2) | Alkohol +1 |
+| Caipirinha (Pitú) | +3 Torment, +2 Spirit (+5) | −3 Intelligence (−3) | Alkohol +2 |
+| Espresso Martini (Kahlúa) | +3 Awareness, +2 Charisma (+5) | −2 Stamina (−2) | Alkohol +1 |
+| Tequila Shot (José Cuervo) | +3 Will, +2 Torment (+5) | −2 Awareness (−2) | Alkohol +2 |
+| Guinness | +3 Health, +2 Determination (+5) | −2 Speed (−2) | Alkohol +1 |
+| Döner | +3 Power, +2 Health, Moral +2 (+5) | −2 Speed (−2) | 20 % Magen, Magen +2 |
+| Big Mac (McDonald's) | +4 Power, +2 Health, Moral +2 (+6) | −2 Stamina (−2) | 20 % Magen, Magen +2 |
+| Whopper (Burger King) | +3 Health, +2 Power (+5) | −2 Speed (−2) | 15 % Magen, Magen +2 |
+| Pizza (Domino's) | +4 Determination, Moral +2 (+4) | −2 Speed (−2) | 15 % Magen, Magen +2 |
+| Currywurst | +3 Torment, +2 Power (+5) | −2 Stamina (−2) | 25 % Magen, Magen +2 |
+| Bucket (KFC) | +4 Health, +2 Power, Moral +2 (+6) | −3 Speed (−3) | 20 % Magen, Magen +2 |
+| Poke Bowl | +3 Stamina, +2 Health (+5) | kein Haken | Gesund |
+| Proteinriegel (PowerBar) | +3 Power, +1 Determination (+4) | kein Haken | Gesund |
+| Smoothie (innocent) | +3 Awareness (+3) | kein Haken | Gesund |
+| Banane (Chiquita) | +3 Stamina (+3) | kein Haken | Gesund |
+| Haferflocken (Kölln) | +2 Stamina, +2 Determination (+4) | kein Haken | Gesund |
+| Wasser (Volvic) | +1 Stamina, Erschöpfung nach dem Einsatz −5 % | kein Haken | Gesund |
+| Grüner Tee (Teekanne) | +2 Intelligence, +2 Awareness (+4) | −1 Power (−1) | Ruhe, kein Zähler |
+| Haribo Goldbären | +2 Charisma, +2 Speed, Moral +2 (+4) | −2 Determination (−2) | Zucker |
+| Snickers | +3 Stamina, Moral +1 (+3) | −1 Determination (−1) | Zucker |
+| Pepsi | +3 Dexterity, Moral +1 (+3) | −1 Stamina (−1) | Zucker |
+
+Die alten Fund-Artikel Jägermeister und Carlsberg sind Partner-Linien geworden (§76.1). Die frühere 20-%-Magen-Regel mit −4 Stamina
+ist durch den sicheren Haken ersetzt; die Magen-Wahrscheinlichkeit bleibt als Zähler (§76.2).
+
+### 78.4 Passt zu: Netto-Wert gegen die offizielle Matrix
+
+`Netto(Artikel, Disziplin) = Σ Plus × Gewicht − Σ Minus × Gewicht`, Gewichte aus `lib/player-generator/official-discipline-weights.ts`
+(nur gelesen, nicht geändert). Die Spalte „Passt zu“ nennt die Disziplinen mit dem höchsten Netto-Wert, dort tragen die Plus-Attribute
+wirklich Gewicht (ab 10 Punkten in der Matrix). Beispiele, gemessen:
+
+| Artikel | Höchster Netto-Wert | Schlechtester |
+|---|---|---|
+| Red Bull Original | Time Trial 138, Fechten 104, Staffel 96 | Wettessen −52 |
+| Monster Original | TDM 108, Climbing 104, Mini DM 96 | Schach −42 |
+| Carlsberg Elephant | Gewichtheben 120, TDM 100, Breaking 90 | Tennis −56 |
+| Jägermeister Eiskalt | Football 101, Mini DM 72, Breaking 62 | Schach −98 |
+| Jägermeister Mut | Wettessen 110, Breaking 104, Takeshi 86 | Basketball −28 |
+| Lavazza Ristretto | Schach 140, Tennis 100, I Spy 84 | Mini DM −40 |
+| Aperol Spritz | Showcase 140, Eiskunst 116, Battlefield 92 | Fechten −30 |
+| Tequila Shot | Breaking 128, Mini DM 90, Wettessen 90 | Tennis −40 |
+| Big Mac | Gewichtheben 140, TDM 124, Hockey 88 | Staffel −28 |
+| Poke Bowl | Wettessen 110, Climbing 98, Mini DM 88 | Eiskunst 0 |
+
+Ein Artikel kann in einer Disziplin deutlich negativ sein (der Haken zählt): ein Eiskalt in Schach ist ein Fehlgriff. Das ist gewollt,
+es macht die Wahl zu einer Entscheidung und nicht zu einem Dauer-Plus.
+
+### 78.5 Abdeckung: jedes der zwölf Attribute ist Plus
+
+| Attribut | Artikel mit Plus (Partner-Linien und Funde) | Matrix, Disziplinen mit Gewicht ab 10 |
+|---|---|---|
+| Power | Monster Original, Carlsberg Pilsner und Elephant, Döner, Big Mac, Whopper, Currywurst, Bucket, Proteinriegel | TDM 28, Gewichtheben 28, Hockey 18, Mini DM 16 |
+| Health | Gatorade Lemon, Guinness, Döner, Big Mac, Whopper, Bucket, Poke Bowl, Abo Stufe 4 | TDM 20, Mini DM 20, Wettessen 22, Hockey 18, Breaking 18 |
+| Determination | Gatorade Orange, Jägermeister Mut, Lavazza Ristretto, Guinness, Pizza, Haferflocken, Abo Stufe 5 | Climbing 16, Takeshi 18, Wettessen 16, Spurt 15 |
+| Stamina | Monster, Gatorade (alle), Poke Bowl, Banane, Haferflocken, Snickers, Abo Stufe 5 | Climbing 26, Wettessen 22, Mini DM 16, Staffel 16 |
+| Speed | Red Bull (alle), Coca-Cola Cherry, Haribo | Staffel 24, Time Trial 22, Spurt 18, Fechten 16 |
+| Dexterity | Red Bull Original und Sugarfree, Club-Mate (alle), Pepsi | Time Trial 25, Fechten 20, Eiskunst 18 |
+| Awareness | Club-Mate (alle), Lavazza Espresso, Espresso Martini, Smoothie, Grüner Tee | Schach 21, Tennis 20, Fechten 15, Basketball 14 |
+| Intelligence | Lavazza (alle), Grüner Tee | Schach 28, Tennis 22, Time Trial 18, I Spy 18 |
+| Will | Carlsberg Pilsner und Elephant, Jägermeister Mut, Tequila Shot | Breaking 28, Wettessen 26, Takeshi 22, Mini DM 14 |
+| Charisma | Coca-Cola Classic, Carlsberg 0,0 %, Jägermeister Orange, Aperol, Mojito, Espresso Martini, Haribo | Eiskunst 28, Showcase 27, Gewichtheben 23, Battlefield 20 |
+| Spirit | Carlsberg 0,0 %, Jägermeister Eiskalt und Orange, Aperol, Mojito, Caipirinha | Football 25, Basketball 22, Tennis 18, Battlefield 16 |
+| Torment | Jägermeister Eiskalt, Caipirinha, Tequila Shot, Currywurst | Fechten 25, Mini DM 24, Breaking 22, I Spy 17 |
+
+Dünn belegt sind Intelligence (nur Lavazza und Tee), Torment und Will (je vier Artikel, dafür mit hohem Netto in den passenden Disziplinen);
+Lücken sind das nicht, aber im Bau lohnt ein Blick, ob die Verteilung der Truhenfunde diese Attribute seltener zieht.
+
+### 78.6 KI-Regel (ergänzt §72 und §76.1)
+
+Die KI wählt einen Artikel für einen Einsatz nur, wenn der **Netto-Wert in der Disziplin des Einsatzes klar positiv** ist: Netto mindestens 30
+und mindestens die Hälfte des Plus-Anteils (`Σ Plus × Gewicht`). **Das Minus zählt mit:** ein Artikel, dessen Haken dort schwerer wiegt als
+das Plus, wird nicht gewählt, auch wenn das Plus allein groß wäre (Beispiel: Eiskalt in Schach, Netto −98). Unter den passenden Artikeln
+gewinnt der höchste Netto-Wert, sonst gelten die Grenzen aus §72 (knappes Duell oder Derby, höchstens 3 je Team und Spieltag, einer je
+Spieler). Das gilt auch für die automatische Vergabe der Partner-Getränke an die zwei knappsten Duelle (§76.1): auch dort entscheidet der
+Netto-Wert, der Mensch kann umlegen. Alkohol-Artikel nie, wenn der Zähler dadurch auf die Schwelle 3 stiege. Der Essens-Abo-Standard ist für
+die KI Stufe 3 (§76.2).
+
+### 78.7 Messung beim Bau
+
+- `einflussVon`: Partner- und Fundwerte sind on top und dürfen weder die Pp-Abweichung (Pflicht ≤ 25) noch rho je Spiel (Mindestschranke 0,75)
+  berühren; gebucht wird in Einsatz und Zerlegung (§54), nicht in der reinen Eignung.
+- Spot-Check: der Haken wirkt im selben Einsatz sichtbar (Zerlegung, Spalte „Gegenstand“); gezeigt = gebucht.
+- Anteil der Alkohol-Partner bei den KI-Teams (Netto-Vorsprung 15 %) und Kater-Ereignisse je Saison zählen; ein Alkohol-Partner darf nicht
+  zum Standard der KI werden.
